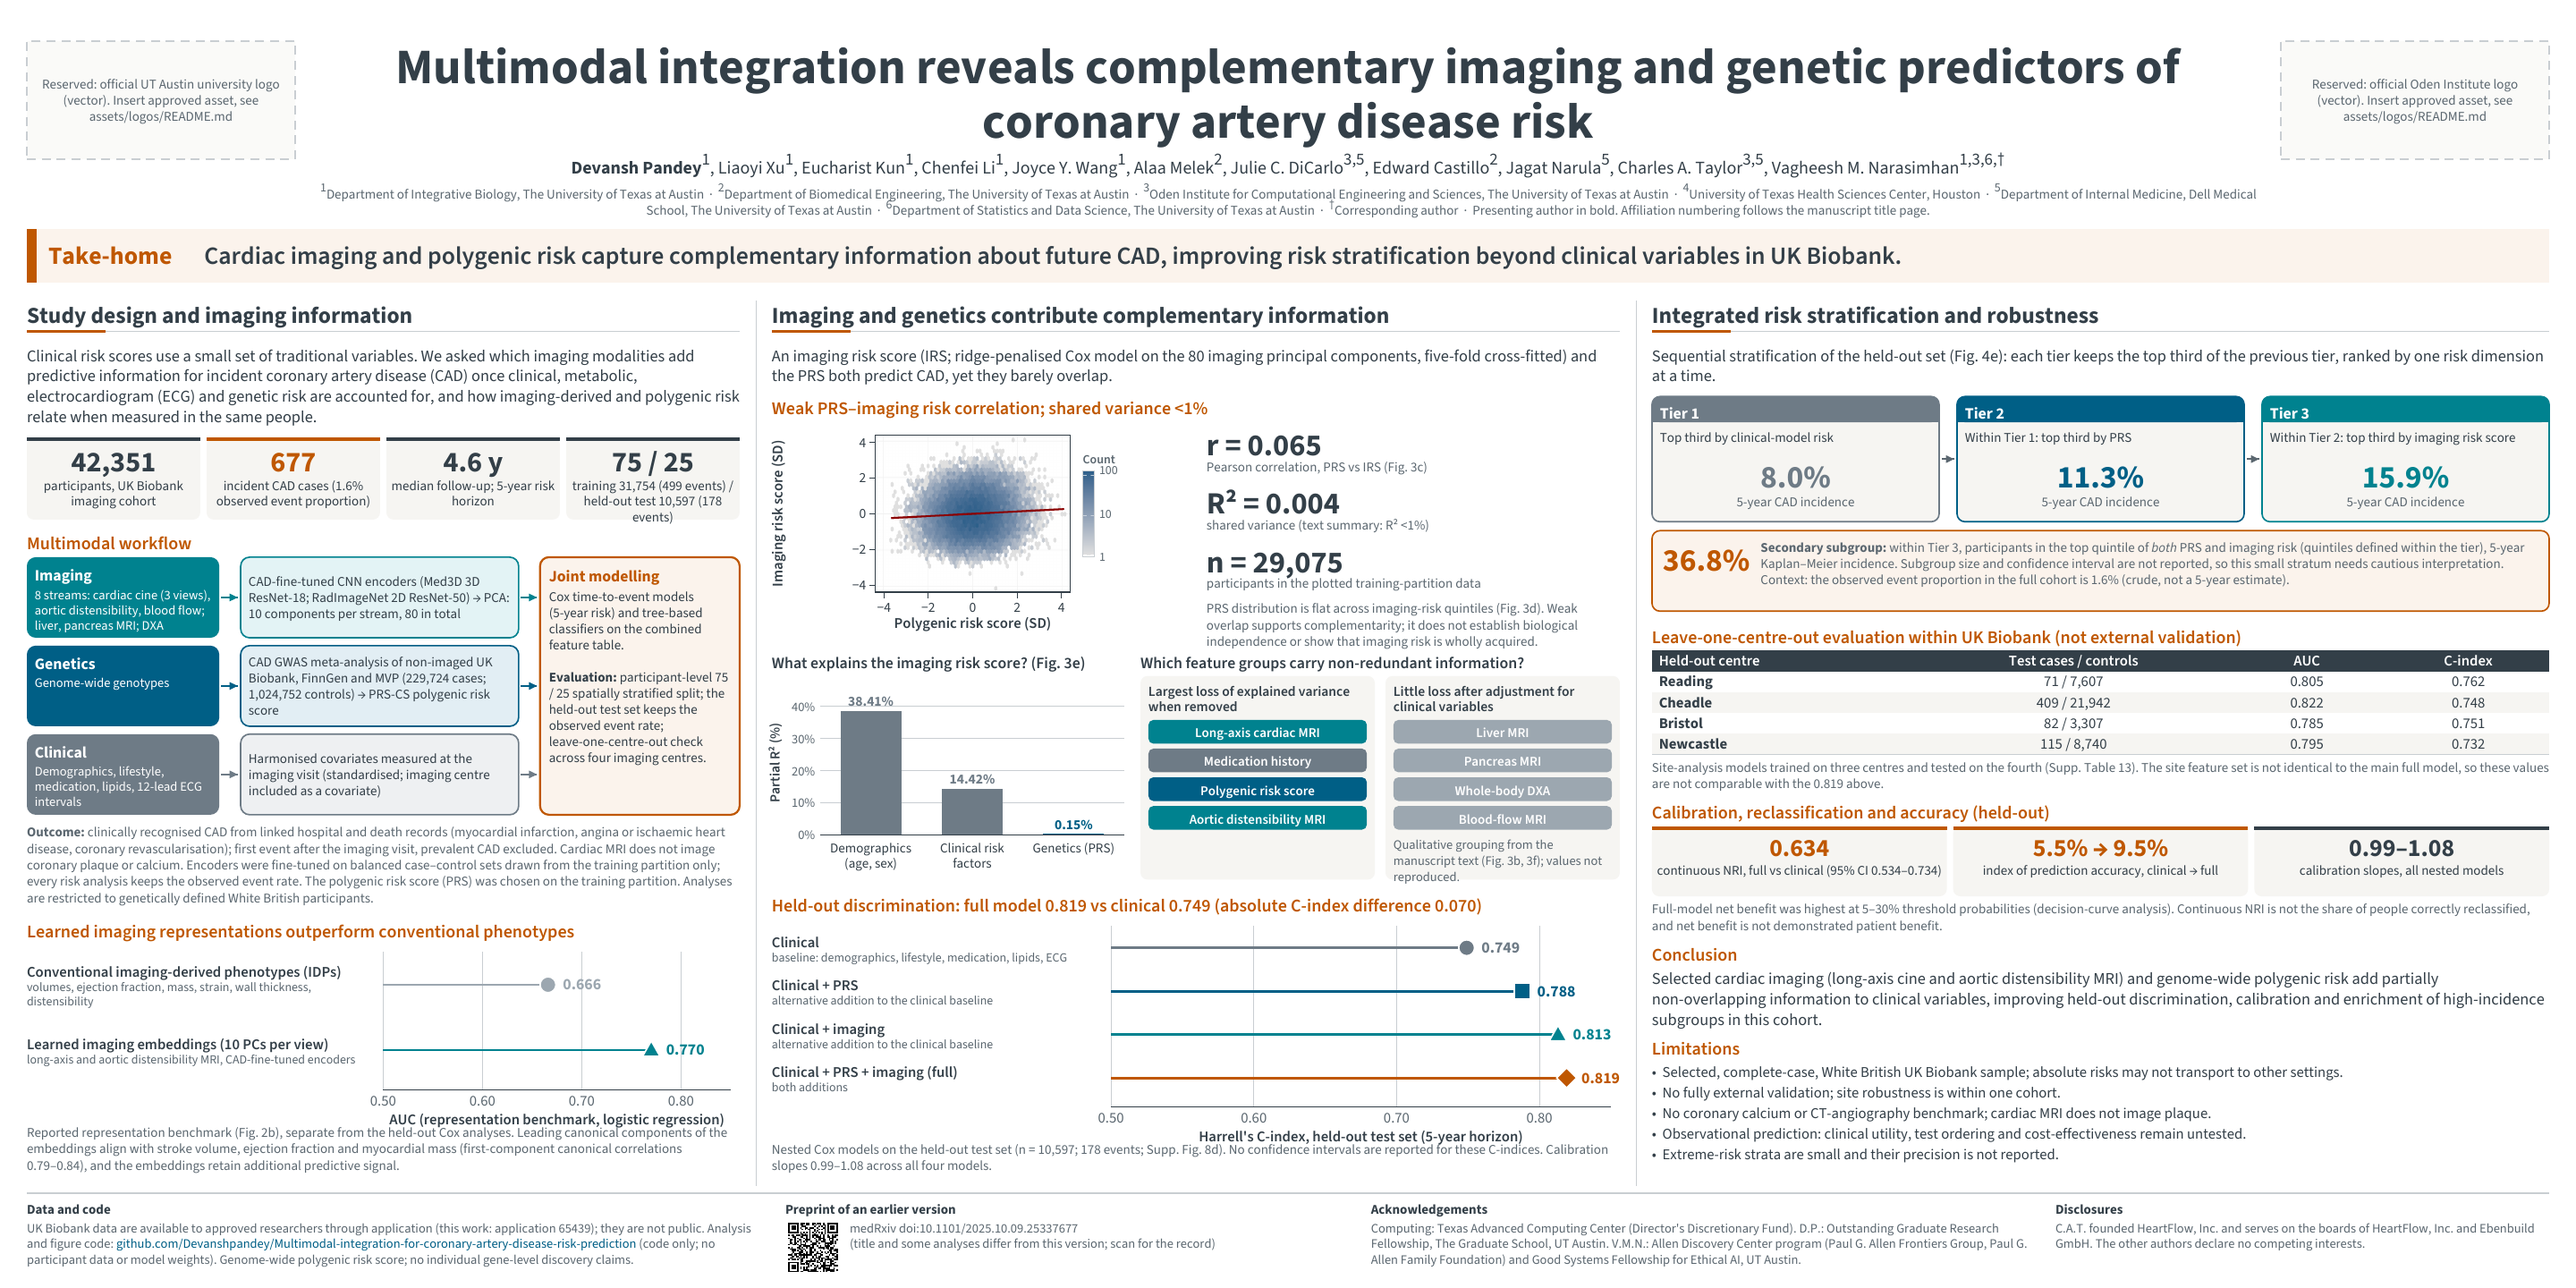
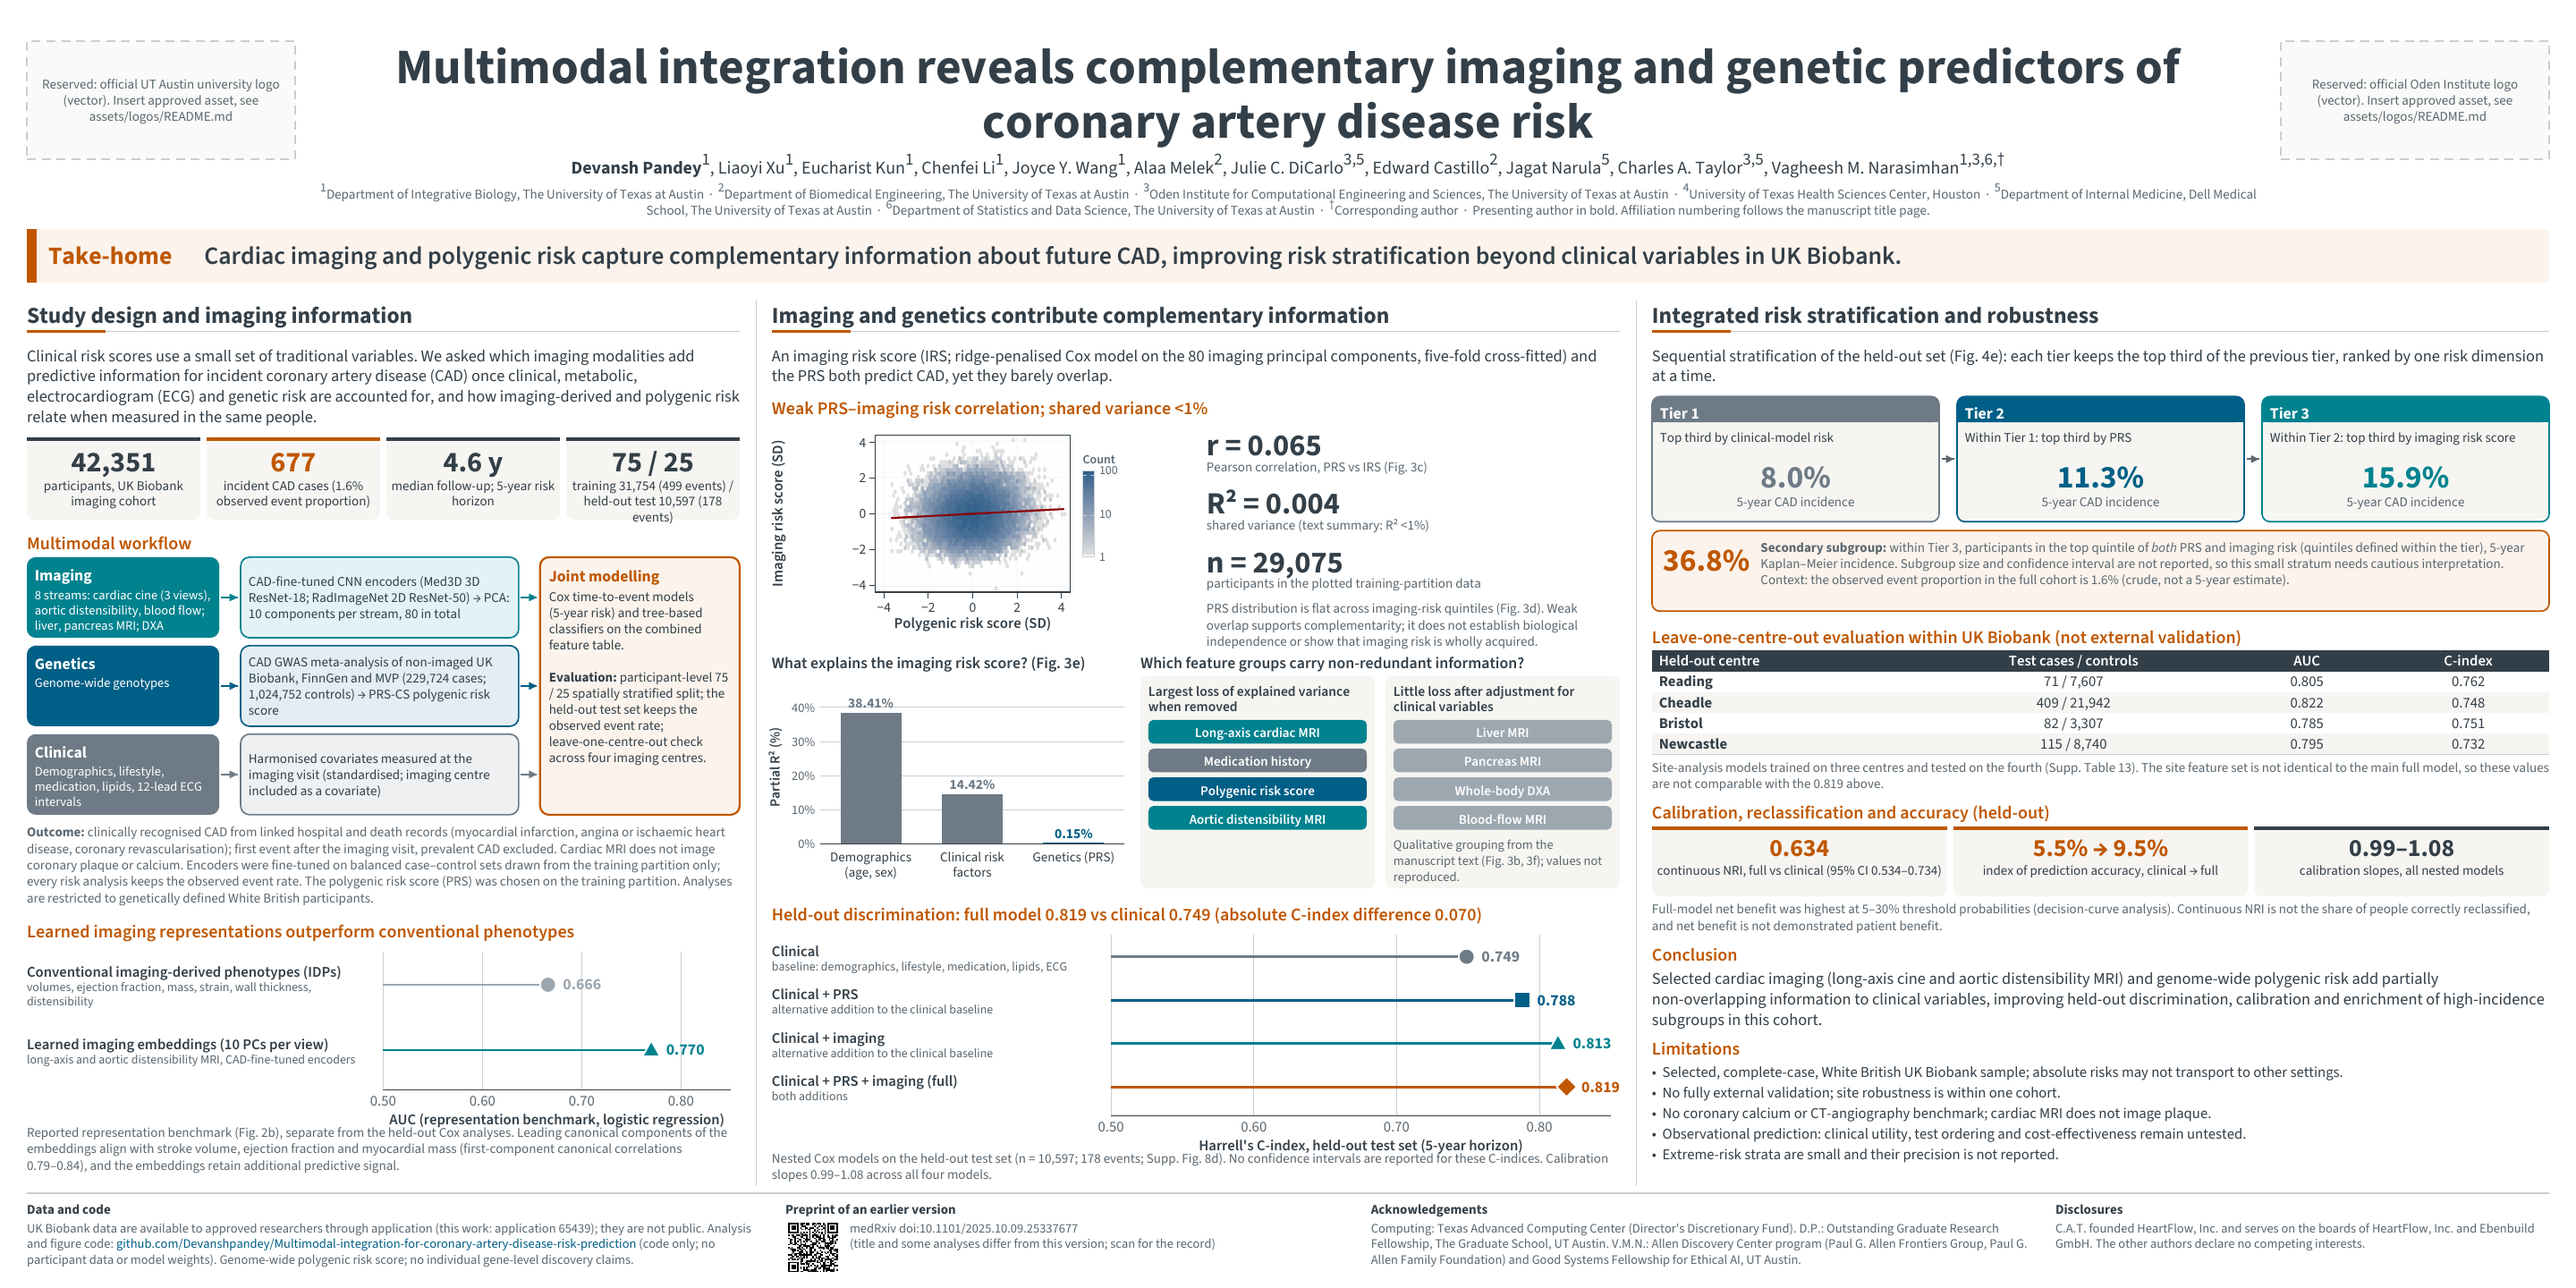
Poster: give the modality chip panel more height so its note clears the box
Claude-Session: https://claude.ai/code/session_01WCeqjP6SagLDbrKwdjRmme

Changed region(s): [[0.2812, 0.5938, 0.625, 0.9375], [0.2812, 0.5625, 0.3125, 0.625], [0.3125, 0.5312, 0.3438, 0.5625]]

diff --git a/poster/build_poster.py b/poster/build_poster.py
@@ -230,7 +230,7 @@ def build(out_pdf: Path, qa: dict):
     k.space(0.35 * IN)
 
     # --- partial R2 bars + chips side by side
-    blk_h = 6.35 * IN
+    blk_h = 6.6 * IN
     x, y, w, h = k.reserve(blk_h)
     bars_w = w * 0.42
     vd = comp["irs_variance_decomposition"]
